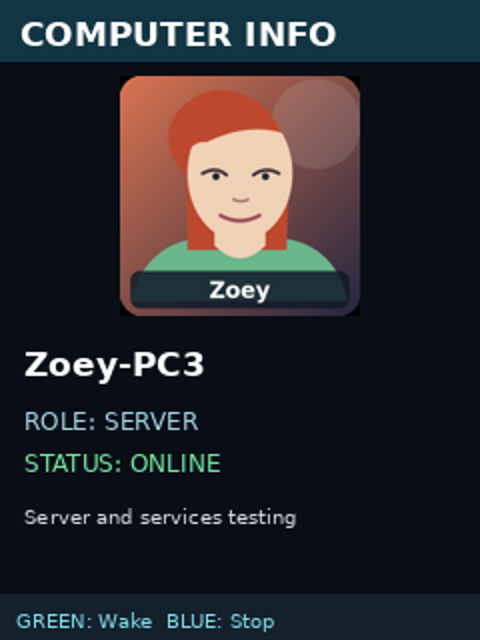
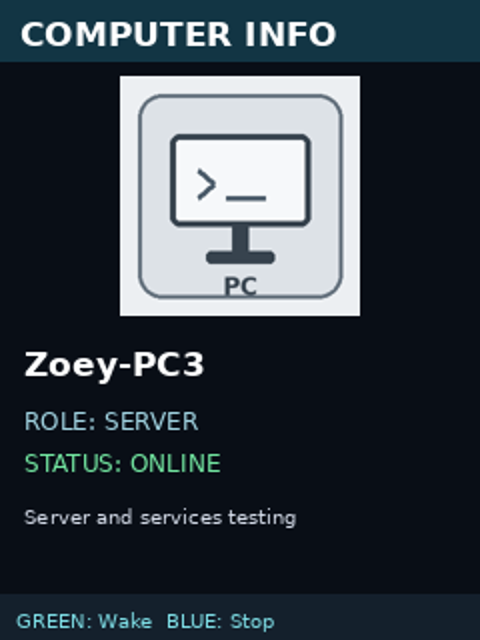
Added placeholder assets

Changed region(s): [[0.25, 0.0938, 0.75, 0.5]]

diff --git a/assets/make_avatars.py b/assets/make_avatars.py
@@ -1,52 +1,19 @@
-"""Generate original placeholder vector portraits and BMPs for ST7789."""
+"""Generate the neutral non-human placeholder avatar used by the demo registry."""
 from pathlib import Path
-from io import BytesIO
-import cairosvg
-from PIL import Image
+from PIL import Image, ImageDraw, ImageFont
 ROOT=Path(__file__).resolve().parent
 OUT=ROOT/'avatars'; OUT.mkdir(exist_ok=True)
-profiles=[
- ('heather','Heather','#c74b88','#171923','#7c3a63','#f1c2a0','long'),
- ('lindsay','Lindsay','#f5c44a','#f7d15e','#81b9e9','#f5cfb5','waves'),
- ('zoey','Zoey','#d97450','#bd482e','#6ab58b','#efd1b6','side'),
- ('gwen','Gwen','#6972b7','#222834','#3196a6','#e8c9bd','fringe'),
- ('courtney','Courtney','#ba6d4c','#623b30','#8b7fa9','#c99279','bob'),
-]
-for slug,name,bg,hair,shirt,skin,style in profiles:
- hair_back = {
-  'long':'<path d="M47 75 Q20 59 36 31 Q48 7 80 14 Q108 18 114 53 L114 120 L43 120Z" fill="HAIR"/>',
-  'waves':'<path d="M42 71 Q18 47 31 24 Q48 -1 81 13 Q115 11 119 52 Q135 79 119 119 L36 119 Q22 96 42 71" fill="HAIR"/>',
-  'side':'<path d="M44 67 Q22 41 41 21 Q62 0 92 17 Q111 33 113 60 L111 116 L45 116Z" fill="HAIR"/>',
-  'fringe':'<path d="M35 60 Q30 11 75 13 Q119 14 118 66 L117 123 L34 123Z" fill="HAIR"/>',
-  'bob':'<path d="M39 46 Q29 9 78 12 Q118 10 118 53 L122 91 Q100 110 78 96 Q49 111 32 89Z" fill="HAIR"/>',
- }[style].replace('HAIR',hair)
- hair_front = {
-  'long':'<path d="M43 60 Q37 36 48 26 Q75 40 100 24 Q111 38 106 55 Q98 34 91 40 Q69 44 48 37Z" fill="HAIR"/>',
-  'waves':'<path d="M42 56 Q33 27 64 22 Q88 9 110 34 Q98 32 95 39 Q65 39 46 32Z" fill="HAIR"/>',
-  'side':'<path d="M41 52 Q38 25 72 19 Q94 15 108 38 Q85 31 58 44 Q45 43 43 60Z" fill="HAIR"/>',
-  'fringe':'<path d="M42 54 Q33 21 75 17 Q106 15 110 52 Q96 43 89 29 Q82 51 56 43 Q48 48 42 54Z" fill="HAIR"/>',
-  'bob':'<path d="M43 56 Q34 27 62 21 Q96 12 111 41 Q92 39 74 28 Q60 44 42 44Z" fill="HAIR"/>',
- }[style].replace('HAIR',hair)
- svg=f'''<svg xmlns="http://www.w3.org/2000/svg" width="240" height="240" viewBox="0 0 160 160">
-<defs><linearGradient id="g" x1="0" y1="0" x2="1" y2="1"><stop stop-color="{bg}"/><stop offset="1" stop-color="#24263f"/></linearGradient></defs>
-<rect width="160" height="160" rx="15" fill="url(#g)"/>
-<circle cx="131" cy="32" r="30" fill="#fff" opacity=".11"/>
-<path d="M7 150 Q17 112 53 108 L107 108 Q143 112 152 150Z" fill="{shirt}"/>
-{hair_back}
-<path d="M63 98 L63 113 Q80 130 97 113 L97 98Z" fill="{skin}"/>
-<ellipse cx="80" cy="65" rx="35" ry="45" fill="{skin}"/>
-{hair_front}
-<path d="M55 65 Q64 60 71 66 M89 66 Q97 60 106 65" fill="none" stroke="#3e3034" stroke-width="2.2" stroke-linecap="round"/>
-<circle cx="64" cy="67" r="2.4" fill="#252735"/><circle cx="97" cy="67" r="2.4" fill="#252735"/>
-<path d="M75 82 Q81 85 86 82" fill="none" stroke="#a8756f" stroke-width="1.8"/>
-<path d="M67 93 Q80 100 93 93" fill="none" stroke="#9a4b5b" stroke-width="2.5" stroke-linecap="round"/>
-<rect x="7" y="130" rx="6" width="146" height="25" fill="#101929" opacity=".84"/>
-<text x="80" y="148" font-family="DejaVu Sans,Arial" font-size="15" font-weight="bold" fill="white" text-anchor="middle">{name}</text>
-</svg>'''
- (OUT/(slug+'.svg')).write_text(svg,encoding='utf-8')
- png=cairosvg.svg2png(bytestring=svg.encode(),output_width=300,output_height=300)
- (OUT/(slug+'.png')).write_bytes(png)
- # 120x120 24-bit BMP, supported by firmware BMP decoder
- img=Image.open(BytesIO(png)).convert('RGB').resize((120,120),Image.Resampling.LANCZOS)
- img.save(OUT/(slug+'.bmp'),format='BMP')
-print('Generated',len(profiles),'custom placeholder avatars')
+def build(size):
+    im=Image.new('RGB',(size,size),(236,239,242)); d=ImageDraw.Draw(im); s=size/240
+    d.rounded_rectangle((18*s,18*s,222*s,222*s),radius=24*s,fill=(221,226,231),outline=(99,112,124),width=max(1,int(4*s)))
+    d.rounded_rectangle((50*s,58*s,190*s,150*s),radius=10*s,fill=(246,248,250),outline=(55,67,78),width=max(1,int(6*s)))
+    d.rectangle((112*s,150*s,128*s,178*s),fill=(55,67,78)); d.rounded_rectangle((86*s,175*s,154*s,187*s),radius=5*s,fill=(55,67,78))
+    d.line((78*s,94*s,94*s,108*s),fill=(76,92,106),width=max(1,int(5*s))); d.line((94*s,108*s,78*s,122*s),fill=(76,92,106),width=max(1,int(5*s))); d.line((106*s,122*s,145*s,122*s),fill=(76,92,106),width=max(1,int(5*s)))
+    try: font=ImageFont.truetype('/usr/share/fonts/truetype/dejavu/DejaVuSans-Bold.ttf',max(9,int(24*s)))
+    except Exception: font=None
+    box=d.textbbox((0,0),'PC',font=font); d.text(((size-(box[2]-box[0]))/2,196*s),'PC',font=font,fill=(55,67,78))
+    return im
+build(240).save(OUT/'placeholder.png','PNG')
+build(120).save(OUT/'placeholder.bmp','BMP')
+(OUT/'placeholder.svg').write_text('<svg xmlns="http://www.w3.org/2000/svg" width="240" height="240" viewBox="0 0 240 240"><rect x="18" y="18" width="204" height="204" rx="24" fill="#dde2e7" stroke="#63707c" stroke-width="4"/><rect x="50" y="58" width="140" height="92" rx="10" fill="#f6f8fa" stroke="#37434e" stroke-width="6"/><rect x="112" y="150" width="16" height="28" fill="#37434e"/><rect x="86" y="175" width="68" height="12" rx="5" fill="#37434e"/><path d="M78 94 L94 108 L78 122 M106 122 H145" fill="none" stroke="#4c5c6a" stroke-width="5" stroke-linecap="round" stroke-linejoin="round"/><text x="120" y="220" text-anchor="middle" font-family="DejaVu Sans,Arial" font-size="24" font-weight="bold" fill="#37434e">PC</text></svg>',encoding='utf-8')
+print('Generated neutral placeholder avatar')

diff --git a/tests/test_project.py b/tests/test_project.py
@@ -15,14 +15,15 @@ class SmokeTests(unittest.TestCase):
         self.assertEqual([x['name'] for x in r],['Heather-PC1','Lindsay-PC2','Zoey-PC3','Gwen-PC4','Courtney-PC5'])
     def test_sync_frame(self):
         s=sync_message(0,load_records()[0]);self.assertTrue(s.startswith('SYNC|0|Heather-PC1|AI|'))
-        self.assertIn('heather.bmp',s)
+        self.assertIn('placeholder.bmp',s)
     def test_safe_pipe_encoding(self):
         self.assertEqual(clean_field('A|B\nC'),'A/ B C'.replace('/ ','/'))
     def test_bmp_assets(self):
-        for slug in ('heather','lindsay','zoey','gwen','courtney'):
-            with Image.open(ROOT/'assets'/'avatars'/f'{slug}.bmp') as im:
-                self.assertEqual(im.size,(120,120))
-                self.assertEqual(im.mode,'RGB')
+        files=sorted(p.name for p in (ROOT/'assets'/'avatars').iterdir())
+        self.assertEqual(files,['placeholder.bmp','placeholder.png','placeholder.svg'])
+        with Image.open(ROOT/'assets'/'avatars'/'placeholder.bmp') as im:
+            self.assertEqual(im.size,(120,120))
+            self.assertEqual(im.mode,'RGB')
     def test_wol_invalid_mac_rejected(self):
         with self.assertRaises(ValueError):wake_on_lan('00:11:22')
     def test_stl_watertight(self):

diff --git a/previews/make_previews.py b/previews/make_previews.py
@@ -20,7 +20,7 @@ for x in (8,134):
 cx,cy=p(71,166);ww,hh=36*S,44*S
 box=[int(cx-ww/2),int(cy-hh/2),int(cx+ww/2),int(cy+hh/2)]
 d.rounded_rectangle([box[0]-8,box[1]-8,box[2]+8,box[3]+8],radius=8,fill=(12,14,24))
-photo=Image.open(ROOT/'assets/avatars/zoey.png').convert('RGB').resize((ww,hh))
+photo=Image.open(ROOT/'assets/avatars/placeholder.png').convert('RGB').resize((ww,hh))
 im.paste(photo,(box[0],box[1]));d.rectangle(box,outline=(118,207,204),width=3)
 # 1602 character display
 cx,cy=p(71,118);ww,hh=66*S,17*S
@@ -52,7 +52,7 @@ im.save(OUT/'enclosure_front_preview.png')
 img=Image.new('RGB',(240,320),(9,14,22));q=ImageDraw.Draw(img)
 q.rectangle((0,0,240,30),fill=(18,53,68))
 q.text((10,7),'COMPUTER INFO',font=font(17,True),fill='white')
-ph=Image.open(ROOT/'assets/avatars/zoey.png').convert('RGB').resize((120,120))
+ph=Image.open(ROOT/'assets/avatars/placeholder.png').convert('RGB').resize((120,120))
 img.paste(ph,(60,38))
 q.text((12,172),'Zoey-PC3',font=font(17,True),fill='white')
 q.text((12,203),'ROLE: SERVER',font=font(12),fill=(161,211,225))

diff --git a/tests/test_media_tools.py b/tests/test_media_tools.py
@@ -40,7 +40,7 @@ class MediaTests(unittest.TestCase):
         records=json.loads((ROOT/'assets'/'computers.json').read_text())
         with tempfile.TemporaryDirectory() as target:
             count, images=export_sd_card(records, target, ROOT/'assets'/'avatars')
-            self.assertEqual((count,images),(5,5))
-            self.assertEqual(len(list(Path(target).iterdir())),6)
+            self.assertEqual((count,images),(17,1))
+            self.assertEqual(len(list(Path(target).iterdir())),2)
 
 if __name__=='__main__':unittest.main()

diff --git a/python_gui/media_tools.py b/python_gui/media_tools.py
@@ -17,7 +17,7 @@ MAX_FIRMWARE_PCS = 128
 def avatar_filename(value):
     filename = str(value or '').strip()
     if Path(filename).name != filename or not SD_FILENAME.fullmatch(filename):
-        raise ValueError('Avatar filename must be a simple BMP filename (letters, numbers, _ or -, up to 31 characters), such as heather1.bmp')
+        raise ValueError('Avatar filename must be a simple BMP filename (letters, numbers, _ or -, up to 31 characters), such as placeholder.bmp')
     return filename.lower()
 
 

diff --git a/README.md b/README.md
@@ -4,7 +4,7 @@
 
 ## New in v0.4: image import + microSD export
 
-Open the Python desktop GUI and use **Choose / replace portrait** to import your own JPG/PNG/WEBP/BMP picture. The GUI now creates a desktop PNG and an ESP32-readable **120×120 uncompressed 24-bit BMP**. Use **Export microSD files** to generate the exact card-root files from the saved GUI records. The `sd_card/` directory is also prebuilt with the five sample portraits. Image data **never transfers over BLE**; copy BMP files to the physical microSD. See [`docs/QUICKSTART_GUI_PORTRAITS_SD.md`](docs/QUICKSTART_GUI_PORTRAITS_SD.md) for exact steps and true power-button options.
+Open the Python desktop GUI and use **Choose / replace portrait** to import your own JPG/PNG/WEBP/BMP picture. The GUI now creates a desktop PNG and an ESP32-readable **120×120 uncompressed 24-bit BMP**. Use **Export microSD files** to generate the exact card-root files from the saved GUI records. The `sd_card/` directory is also prebuilt with the neutral placeholder image. Image data **never transfers over BLE**; copy BMP files to the physical microSD. See [`docs/QUICKSTART_GUI_PORTRAITS_SD.md`](docs/QUICKSTART_GUI_PORTRAITS_SD.md) for exact steps and true power-button options.
 
 ## New in v0.3: removable rear 5 V battery compartment
 
@@ -25,14 +25,14 @@ This version adds an **external battery tray** and **screw-on ventilated door** 
 ## Features
 
 - **Five editable test computers:** Heather-PC1 (AI), Lindsay-PC2 (NAS), Zoey-PC3 (SERVER), Gwen-PC4 (WORKSTATION), Courtney-PC5 (LAB).
-- **Original placeholder portraits**, intentionally not official Total Drama Island art, stored as `.png`, editable `.svg`, and **120 × 120, 24-bit `.bmp`** for the ST7789V.
-- **240 × 320 TFT:** scrollable computer directory, character portrait/detail page, shutdown confirmation, numeric password keypad (digits 1–9), selected-versus-all computer action, request status.
+- **Neutral placeholder image** stored as `.png`, editable `.svg`, and **120 × 120, 24-bit `.bmp`** for the ST7789V. No character portraits are bundled.
+- **240 × 320 TFT:** scrollable computer directory, image/detail page, shutdown confirmation, numeric password keypad (digits 1–9), selected-versus-all computer action, request status.
 - **16 × 2 character LCD:** one-line state and selected-computer summary.
 - **Joystick:** four-way selection, **SW push function unused**.
 - **Four square buttons:** RED POWER, YELLOW BACK, GREEN PRESS, BLUE STOP.
 - **Passive piezo:** navigation, invalid-action, error, success and confirmation sounds.
 - **microSD:** cached directory and character images; BLE-updated registry is saved to card.
-- **Python GUI:** neutral project title, portraits, editable computer info, TCP status probes, BLE sync, guarded Wake-on-LAN and SSH shutdown.
+- **Python GUI:** neutral project title, image placeholders, editable computer info, TCP status probes, BLE sync, guarded Wake-on-LAN and SSH shutdown.
 
 ![ST7789V details screen](previews/display_zoey_example.png)
 
@@ -58,11 +58,7 @@ Format the 1 GB card as FAT16/FAT32 where supported. Copy these files **directly
 
 ```
 /computers.csv
-/heather.bmp
-/lindsay.bmp
-/zoey.bmp
-/gwen.bmp
-/courtney.bmp
+/placeholder.bmp
 ```
 
 Use the contents of `assets/computers.csv` and `assets/avatars/*.bmp`. The BMP files are 24-bit uncompressed, 120×120 pixels. Replacements must use the same size/format or the firmware BMP decoder must be updated.
@@ -153,7 +149,7 @@ Computer_Directory_Console_v1/
 │   ├── computers.csv
 │   ├── computers.json
 │   ├── make_avatars.py
-│   └── avatars/{heather,lindsay,zoey,gwen,courtney}.{svg,png,bmp}
+│   └── avatars/placeholder.{svg,png,bmp}
 ├── cad/
 │   ├── Console_Assembly.step
 │   ├── front_panel.step
@@ -180,14 +176,14 @@ Computer_Directory_Console_v1/
 
 ## Placeholder assets
 
-The five character names, portraits, computer names, roles, example addresses, and descriptions are placeholder/demo content used for testing the interface. Replace network values before real deployment. Do not commit real MAC addresses, SSH usernames, private keys, passwords, or security tokens. No license is implicitly granted by this bundle; add an appropriate license before public distribution.
+The character-based computer names, roles, example addresses, and descriptions are placeholder/demo content used for testing the interface. Only a generic non-human placeholder image is bundled. Replace network values before real deployment. Do not commit real MAC addresses, SSH usernames, private keys, passwords, or security tokens. No license is implicitly granted by this bundle; add an appropriate license before public distribution.
 
 ## Build milestone order
 
 1. Prove TFT and 1602 I²C LCD independently (including I²C voltage safety).
 2. Prove microSD reads one BMP on the TFT.
 3. Wire joystick, four buttons and piezo; test each with Serial Monitor.
-4. Flash combined firmware; verify directory, portraits, keypad and console STOP request **with manager unarmed**.
+4. Flash combined firmware; verify directory, placeholder image, keypad and console STOP request **with manager unarmed**.
 5. Start GUI offline; edit data and save; test BLE connection and sync.
 6. Configure harmless TCP status probes and a single test Wake-on-LAN target.
 7. Configure a noncritical lab host for SSH shutdown; test only with authorization and GUI confirmation.

diff --git a/docs/QUICKSTART_GUI_PORTRAITS_SD.md b/docs/QUICKSTART_GUI_PORTRAITS_SD.md
@@ -37,8 +37,7 @@ Notes, etc. Click **Save changes**. This writes `assets/computers.json` on the P
 The image is **center-cropped to a square**, not stretched. The old `.svg`
 original artwork is not updated by custom photo imports.
 
-The **avatar** field should contain a short filename, e.g. `heather.bmp`,
-`lindsay.bmp`, or `pc01.bmp`. The TFT firmware expects simple 8.3-compatible
+The **avatar** field should contain a short filename, e.g. `placeholder.bmp` or `pc01.bmp`. The TFT firmware expects simple 8.3-compatible
 filenames, max eight letters/digits/underscores before `.bmp`.
 
 ## 2. Prepare the 1 GB microSD
@@ -59,15 +58,10 @@ Expected card layout:
 ```
 / (root)
   computers.csv
-  heather.bmp
-  lindsay.bmp
-  zoey.bmp
-  gwen.bmp
-  courtney.bmp
+  placeholder.bmp
 ```
 
-The supplied portraits are about 43,254 bytes each, so all five total only
-about 216 KB. **1 GB is far more than sufficient.** The ESP32 program supports
+The supplied generic placeholder is small, so a 1 GB card has ample space. **1 GB is far more than sufficient.** The ESP32 program supports
 up to 12 registry entries, though the current screen draws only 9 directory
 rows. The SD card is not a log drive; status updates are held in RAM and records
 are saved on BLE sync events. **Avoid removing the card during a write.**

diff --git a/docs/TECHNICAL_RUNBOOK.md b/docs/TECHNICAL_RUNBOOK.md
@@ -67,11 +67,7 @@ Card root must have:
 
 ```
 /computers.csv
-/heather.bmp
-/lindsay.bmp
-/zoey.bmp
-/gwen.bmp
-/courtney.bmp
+/placeholder.bmp
 ```
 
 CSV format is **pipe-separated** (not comma-separated):
@@ -122,7 +118,7 @@ Messages are UTF-8 ASCII-friendly **newline-delimited** frames, split into BLE c
 | Direction | Example | Description |
 | --- | --- | --- |
 | GUI → ESP32 | `PING` | ESP32 replies `HELLO` |
-| GUI → ESP32 | `SYNC|0|Heather-PC1|AI|192.168.2.101||heather.bmp|UNKNOWN|Test computer` | Replace a cached record; saved to SD |
+| GUI → ESP32 | `SYNC|0|Heather-PC1|AI|192.168.2.101||placeholder.bmp|UNKNOWN|Test computer` | Replace a cached record; saved to SD |
 | GUI → ESP32 | `STATE|0|ONLINE` | Update the display's live status; not persisted as ONLINE |
 | ESP32 → GUI | `REQ|0|WAKE` | Request Wake-on-LAN for selected record |
 | ESP32 → GUI | `REQ|ALL|STOP` | Request graceful shutdown for all, GUI approval required |

diff --git a/README_128PC_UPGRADE.md b/README_128PC_UPGRADE.md
@@ -8,7 +8,7 @@ Changes:
 - GUI registry accepts up to 128 records.
 - microSD exporter accepts up to 128 records.
 - Push All uses SYNCBEGIN/SYNCEND so the ESP32 writes computers.csv once per batch instead of once per record.
-- Avatar BMP filenames may be up to 31 characters before .bmp, including bridgette1.bmp.
+- Avatar BMP filenames may be up to 31 characters before .bmp, including placeholder.bmp.
 - GUI computer list now has a vertical scrollbar.
 
 Important: flash the included firmware and use the included Python GUI files together because the batch-sync protocol changed.
